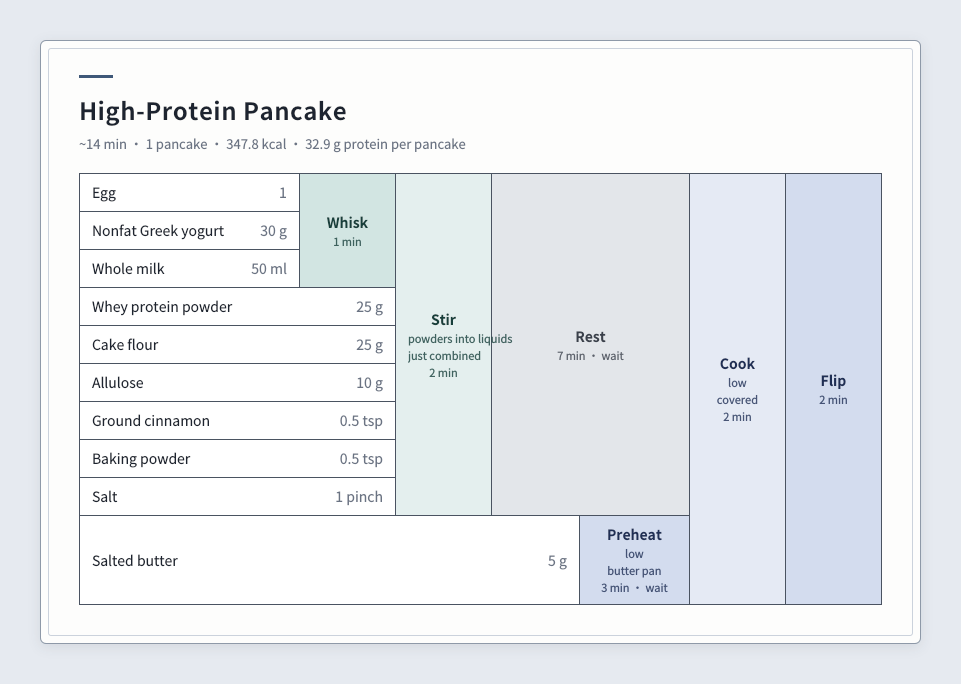
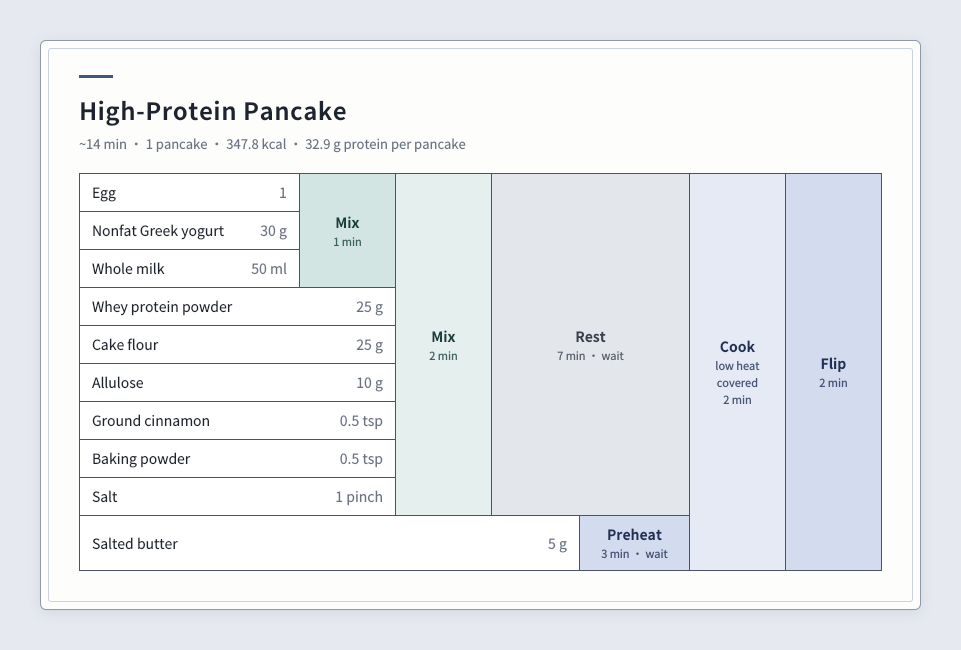
High-protein pancake: drop small notes except low heat covered; both mix steps named Mix in English
Claude-Session: https://claude.ai/code/session_01QTuuncf3o8J9F6xQdQUiuV

diff --git a/recipes/breakfast/high-protein-pancake.md b/recipes/breakfast/high-protein-pancake.md
@@ -4,7 +4,7 @@
 
 ## 配方表
 
-<table class="cfe"><colgroup><col style="width:155px"><col style="width:96px"><col style="width:96px"><col style="width:88px"><col style="width:110px"><col style="width:96px"><col style="width:96px"></colgroup><tr><td colspan="1">鸡蛋 <b>1 个</b></td><td rowspan="3" colspan="1">搅匀<br><sub>1 min</sub></td><td rowspan="9" colspan="1">拌合<br><sub>粉拌入液体</sub><br><sub>无干粉即停</sub><br><sub>2 min</sub></td><td rowspan="9" colspan="2">静置<br><sub>7 min · 等待</sub></td><td rowspan="10" colspan="1">煎<br><sub>小火</sub><br><sub>加盖</sub><br><sub>2 min</sub></td><td rowspan="10" colspan="1">翻面<br><sub>2 min</sub></td></tr><tr><td colspan="1">脱脂希腊酸奶 <b>30 g</b></td></tr><tr><td colspan="1">全脂牛奶 <b>50 ml</b></td></tr><tr><td colspan="2">乳清蛋白粉 <b>25 g</b></td></tr><tr><td colspan="2">低筋面粉 <b>25 g</b></td></tr><tr><td colspan="2">阿洛酮糖 <b>10 g</b></td></tr><tr><td colspan="2">肉桂粉 <b>0.5 tsp</b></td></tr><tr><td colspan="2">泡打粉 <b>0.5 tsp</b></td></tr><tr><td colspan="2">盐 <b>1 撮</b></td></tr><tr><td colspan="4">含盐黄油 <b>5 g</b></td><td rowspan="1" colspan="1">热锅<br><sub>小火</sub><br><sub>抹黄油</sub><br><sub>3 min · 等待</sub></td></tr></table>
+<table class="cfe"><colgroup><col style="width:155px"><col style="width:96px"><col style="width:96px"><col style="width:88px"><col style="width:110px"><col style="width:96px"><col style="width:96px"></colgroup><tr><td colspan="1">鸡蛋 <b>1 个</b></td><td rowspan="3" colspan="1">搅匀<br><sub>1 min</sub></td><td rowspan="9" colspan="1">拌合<br><sub>2 min</sub></td><td rowspan="9" colspan="2">静置<br><sub>7 min · 等待</sub></td><td rowspan="10" colspan="1">煎<br><sub>小火加盖</sub><br><sub>2 min</sub></td><td rowspan="10" colspan="1">翻面<br><sub>2 min</sub></td></tr><tr><td colspan="1">脱脂希腊酸奶 <b>30 g</b></td></tr><tr><td colspan="1">全脂牛奶 <b>50 ml</b></td></tr><tr><td colspan="2">乳清蛋白粉 <b>25 g</b></td></tr><tr><td colspan="2">低筋面粉 <b>25 g</b></td></tr><tr><td colspan="2">阿洛酮糖 <b>10 g</b></td></tr><tr><td colspan="2">肉桂粉 <b>0.5 tsp</b></td></tr><tr><td colspan="2">泡打粉 <b>0.5 tsp</b></td></tr><tr><td colspan="2">盐 <b>1 撮</b></td></tr><tr><td colspan="4">含盐黄油 <b>5 g</b></td><td rowspan="1" colspan="1">热锅<br><sub>3 min · 等待</sub></td></tr></table>
 
 ## 时间线
 
